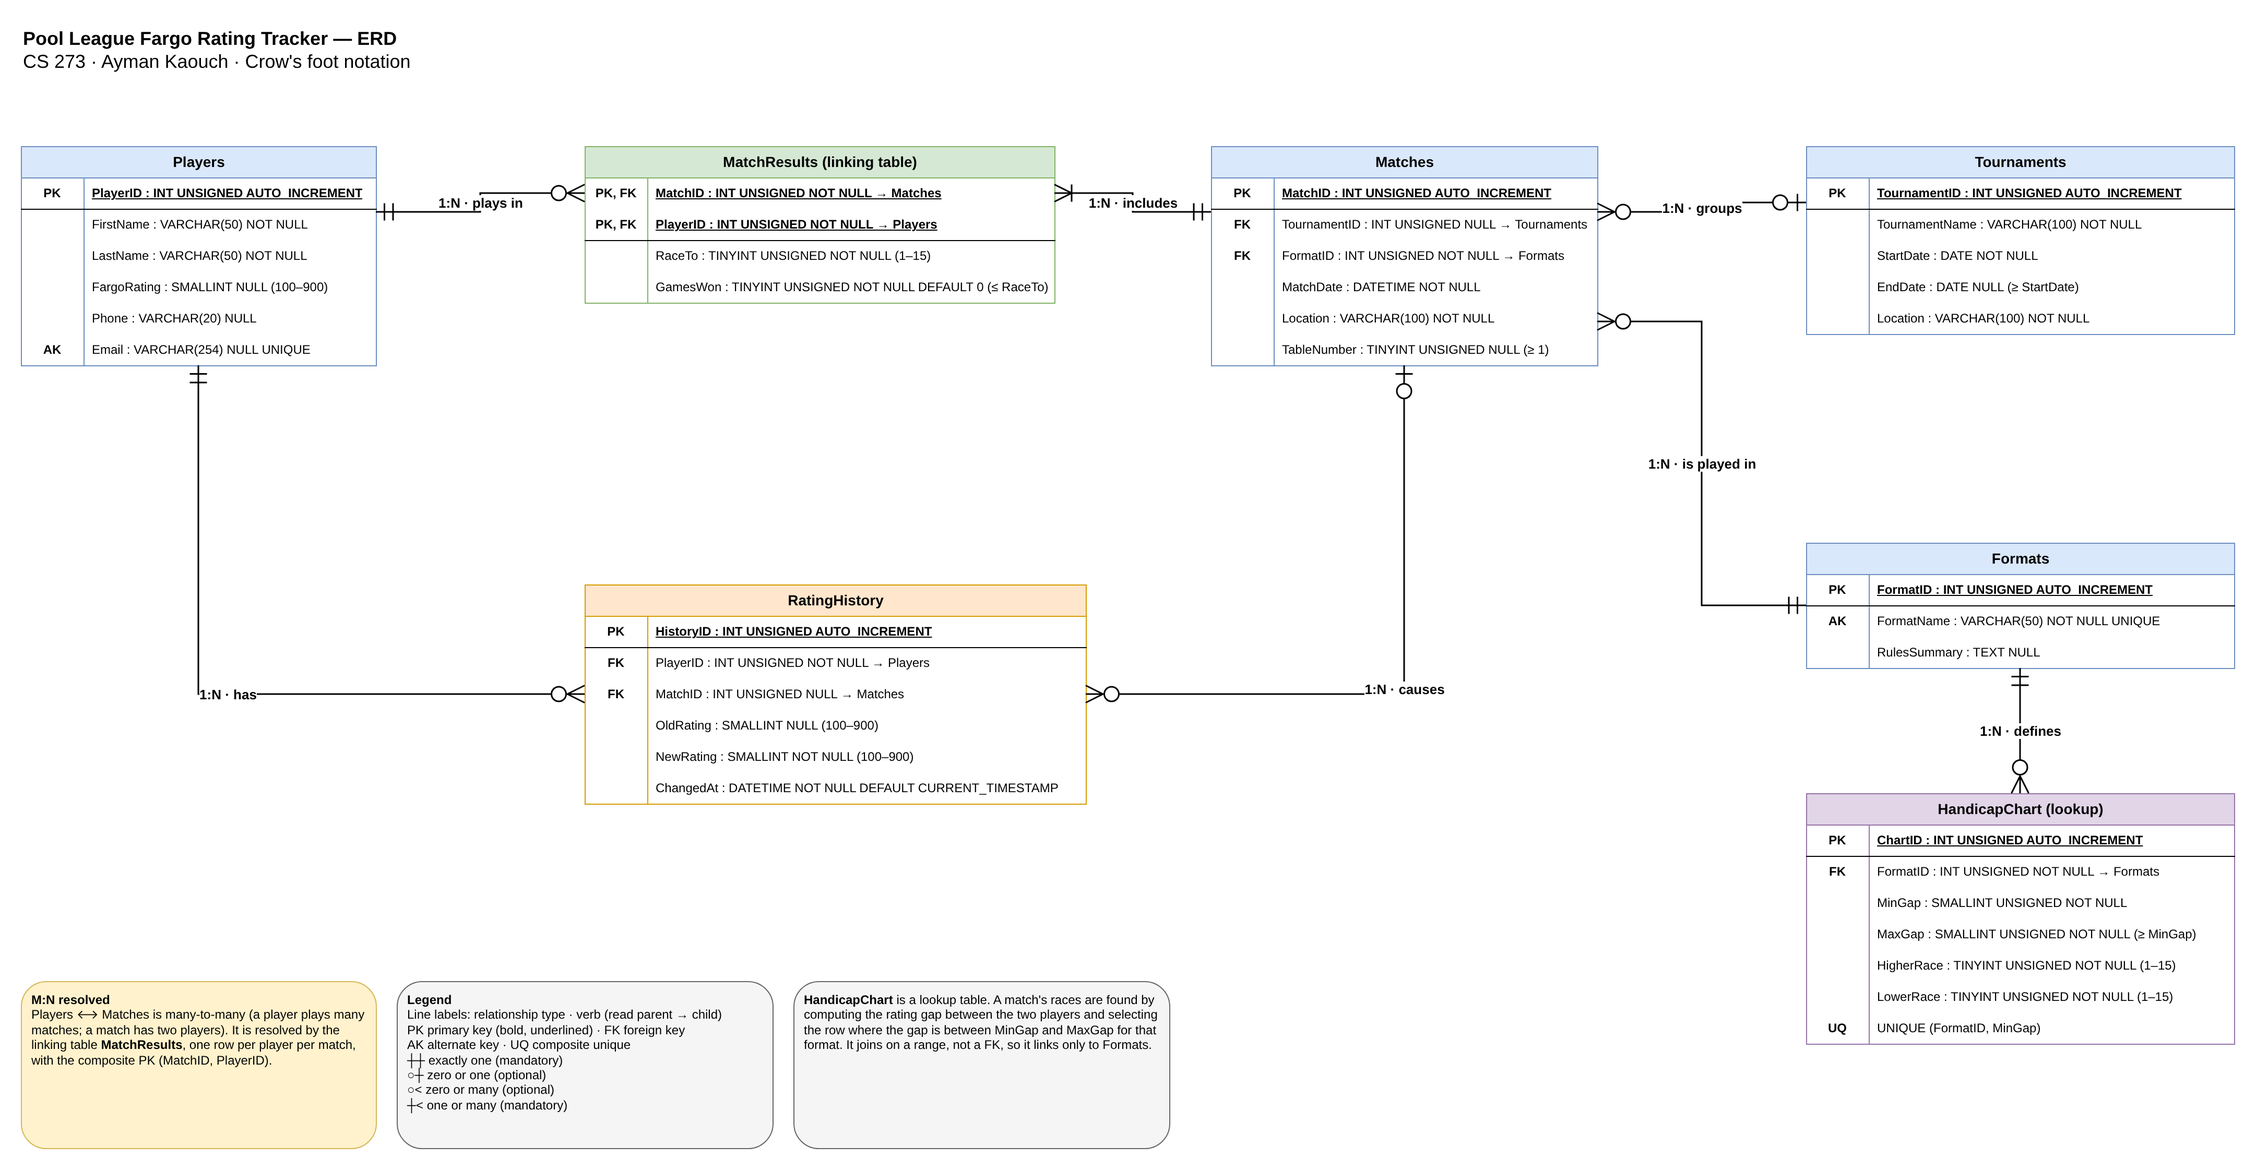
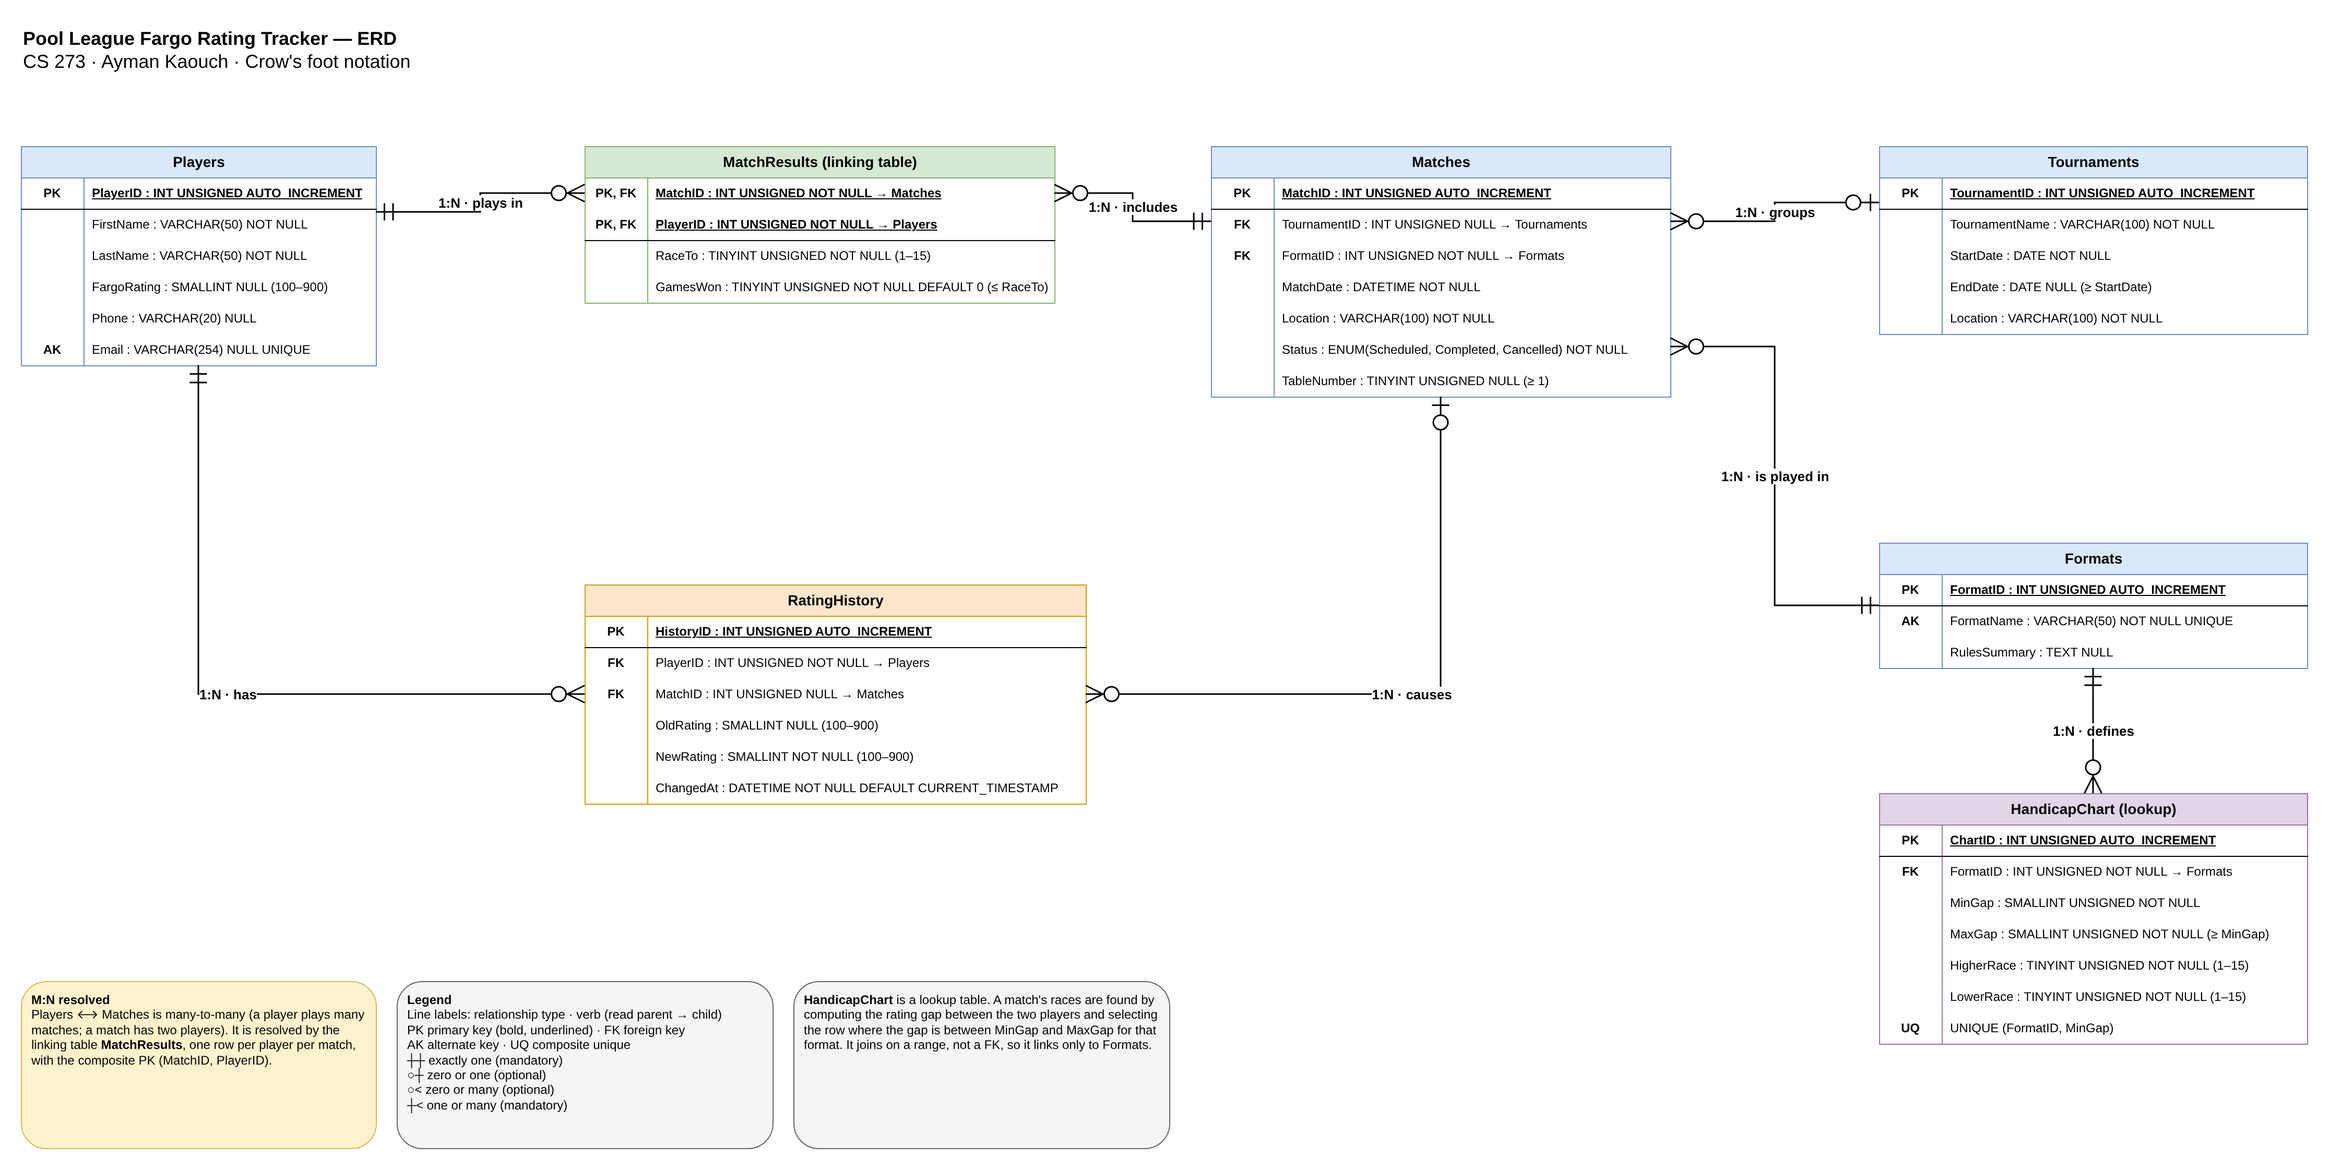
Add match status and status filter

diff --git a/app/read.php b/app/read.php
@@ -2,31 +2,41 @@
 // read.php -- Phase 7a read page: match results
 // CS 273 Phase 7   Ayman Kaouch   Pool League Fargo Rating Tracker
 // Objective 4 — Record individual match schedules, table assignments, and final scores.
-// JOIN query: Matches → Formats, Matches → MatchResults → Players (Phase 5A Q1).
+// JOIN query: Matches → Formats, Matches → MatchResults → Players (Phase 5A Q1),
+// filtered by game format and match status.
 
 // ── 1. Connect ──────────────────────────────────────────────
 require __DIR__ . '/db.php';
 
 // ── 2. Query ────────────────────────────────────────────────
-// Use one of my Phase 5A JOIN queries (Q1)
-$select = 'SELECT m.MatchID,
-                  m.MatchDate,
-                  f.FormatName,
-                  m.TableNumber,
-                  m.Location,
-                  p.FirstName,
-                  p.LastName,
-                  mr.RaceTo,
-                  mr.GamesWon,
-                  mr.GamesWon = mr.RaceTo AS Won
-           FROM Matches m
-           INNER JOIN Formats f       ON m.FormatID  = f.FormatID
-           INNER JOIN MatchResults mr ON m.MatchID   = mr.MatchID
-           INNER JOIN Players p       ON mr.PlayerID = p.PlayerID';
-$order = ' ORDER BY m.MatchDate, m.MatchID, Won DESC';
+// Every match with its players (Phase 5A Q1). LEFT JOINs keep scheduled and
+// cancelled matches, which have no players or results yet.
+// Two optional filters, both passed as ? parameters (never concatenated):
+//   (? = 'all' OR m.FormatID = ?)  → when the filter is 'all', every row passes.
+$sql = 'SELECT m.MatchID,
+               m.MatchDate,
+               f.FormatName,
+               m.TableNumber,
+               m.Location,
+               m.Status,
+               p.FirstName,
+               p.LastName,
+               mr.RaceTo,
+               mr.GamesWon,
+               mr.GamesWon = mr.RaceTo AS Won
+        FROM Matches m
+        INNER JOIN Formats f      ON m.FormatID  = f.FormatID
+        LEFT JOIN MatchResults mr ON m.MatchID   = mr.MatchID
+        LEFT JOIN Players p       ON mr.PlayerID = p.PlayerID
+        WHERE (? = \'all\' OR m.FormatID = ?)
+          AND (? = \'all\' OR m.Status   = ?)
+        ORDER BY m.MatchDate, m.MatchID, Won DESC';
+
+// Whitelist of allowed status values (from the ENUM in schema.sql)
+$allowed_statuses = ['Scheduled', 'Completed', 'Cancelled'];
 
 try {
-    // Formats for the dropdown, and the list of allowed filter values
+    // Formats for the dropdown, and the list of allowed format values
     $stmt = $pdo->prepare('SELECT FormatID, FormatName FROM Formats ORDER BY FormatName');
     $stmt->execute();
     $formats = $stmt->fetchAll();
@@ -36,17 +46,17 @@ try {
         $allowed_formats[] = $f['FormatID'];
     }
 
-    // Get filter from query string, default to 'all'
-    // NEVER concatenate the filter into the SQL: it is passed as a ? parameter
+    // Get the filters from the query string, default to 'all'.
+    // Anything not in a whitelist becomes 'all'.
     $filter = $_GET['format'] ?? 'all';
-    if ($filter === 'all' || !in_array($filter, $allowed_formats)) {
+    if (!in_array($filter, $allowed_formats)) {
         $filter = 'all';
-        $sql    = $select . $order;
-        $params = [];
-    } else {
-        $sql    = $select . ' WHERE m.FormatID = ?' . $order;
-        $params = [$filter];
     }
+    $status = $_GET['status'] ?? 'all';
+    if (!in_array($status, $allowed_statuses, true)) {
+        $status = 'all';
+    }
+    $params = [$filter, $filter, $status, $status];
 
     $stmt = $pdo->prepare($sql);
     $stmt->execute($params);
@@ -81,6 +91,10 @@ try {
   tr:nth-child(even) { background: #f5f5f5; }
   .won  { color: #1E6B3C; font-weight: bold; }
   .lost { color: #7B1F1F; }
+  .badge { padding: .15rem .5rem; border-radius: 4px; font-size: .85rem; }
+  .badge-completed { background: #d4edda; color: #155724; }
+  .badge-scheduled { background: #d6e4f0; color: #1F3864; }
+  .badge-cancelled { background: #e2e3e5; color: #555; }
   .no-results { color: #888; font-style: italic; margin-top: 1rem; }
   .error      { color: #c0392b; background: #fdf2f2; padding: .75rem; }
   .success    { color: #1E6B3C; background: #eafaf1; padding: .75rem; }
@@ -90,7 +104,7 @@ try {
 <body>
 
 <h1>Match Results</h1>
-<p>Every match, who played, the race each player had to reach, and who won.</p>
+<p>Every match: when and where it is played, its status, who played, the race each player had to reach, and who won.</p>
 
 <?php if (isset($_GET['added']) && $_GET['added'] === '1'): ?>
   <p class="success">Record added.</p>
@@ -98,7 +112,7 @@ try {
 
 <p><a href="insert.php">+ Add a player</a></p>
 
-<!-- HTML form for the filter -->
+<!-- HTML form for the filters -->
 <form method="GET">
   <label>Game format:
     <select name="format" onchange="this.form.submit()">
@@ -107,6 +121,18 @@ try {
         <option value="<?= htmlspecialchars($f['FormatID']) ?>"
           <?= ($f['FormatID'] == $filter) ? 'selected' : '' ?>>
           <?= htmlspecialchars($f['FormatName']) ?>
+        </option>
+      <?php endforeach; ?>
+    </select>
+  </label>
+  &nbsp;
+  <label>Status:
+    <select name="status" onchange="this.form.submit()">
+      <option value="all">All statuses</option>
+      <?php foreach ($allowed_statuses as $s): ?>
+        <option value="<?= htmlspecialchars($s) ?>"
+          <?= ($s === $status) ? 'selected' : '' ?>>
+          <?= htmlspecialchars($s) ?>
         </option>
       <?php endforeach; ?>
     </select>
@@ -127,6 +153,7 @@ try {
         <th>Format</th>
         <th>Table</th>
         <th>Location</th>
+        <th>Status</th>
         <th>Player</th>
         <th>Race To</th>
         <th>Games Won</th>
@@ -140,13 +167,29 @@ try {
           $dt = new DateTime($row['MatchDate']);
           $nice_date = $dt->format('M d, Y g:i A');
 
-          // Result: the winner is the player who reached their race
-          $result = $row['Won'] ? 'Won' : 'Lost';
-          $class  = match ($result) {
+          // Status badge: CSS class based on the value
+          $status_class = match ($row['Status']) {
+              'Completed' => 'badge-completed',
+              'Scheduled' => 'badge-scheduled',
+              'Cancelled' => 'badge-cancelled',
+              default     => '',
+          };
+
+          // Result: only a completed match has a winner
+          // (the winner is the player who reached their race)
+          if ($row['Status'] === 'Completed') {
+              $result = $row['Won'] ? 'Won' : 'Lost';
+          } else {
+              $result = '—';
+          }
+          $class = match ($result) {
               'Won'   => 'won',
               'Lost'  => 'lost',
               default => '',
           };
+
+          // Players aren't drawn yet for scheduled/cancelled matches
+          $player = ($row['FirstName'] !== null) ? $row['FirstName'] . ' ' . $row['LastName'] : 'TBD';
         ?>
         <tr>
           <td><?= htmlspecialchars($row['MatchID']) ?></td>
@@ -154,9 +197,10 @@ try {
           <td><?= htmlspecialchars($row['FormatName']) ?></td>
           <td><?= htmlspecialchars($row['TableNumber'] ?? '—') ?></td>
           <td><?= htmlspecialchars($row['Location']) ?></td>
-          <td><?= htmlspecialchars($row['FirstName'] . ' ' . $row['LastName']) ?></td>
-          <td><?= htmlspecialchars($row['RaceTo']) ?></td>
-          <td><?= htmlspecialchars($row['GamesWon']) ?></td>
+          <td><span class="badge <?= $status_class ?>"><?= htmlspecialchars($row['Status']) ?></span></td>
+          <td><?= htmlspecialchars($player) ?></td>
+          <td><?= htmlspecialchars($row['RaceTo'] ?? '—') ?></td>
+          <td><?= htmlspecialchars($row['GamesWon'] ?? '—') ?></td>
           <td class="<?= $class ?>"><?= htmlspecialchars($result) ?></td>
         </tr>
       <?php endforeach; ?>

diff --git a/erd/README.md b/erd/README.md
@@ -33,8 +33,8 @@ A player plays many matches over a season, and every match has more than one pla
 Each MatchResults row is about exactly one player (`PlayerID` NOT NULL), but one player has many match rows. A player can have zero rows if they just signed up.
 **If modeled differently:** as 1:1, a player could only ever record one match. If MatchResults were mandatory, a new player could not be added until they had already played.
 
-### Matches → MatchResults — **1:N** (Matches mandatory one · MatchResults mandatory many)
-Each row belongs to exactly one match (`MatchID` NOT NULL), and one match has several player rows (two in practice). A match without players makes no sense, so both sides are mandatory.
+### Matches → MatchResults — **1:N** (Matches mandatory one · MatchResults optional many)
+Each row belongs to exactly one match (`MatchID` NOT NULL), and a completed match has two player rows. A scheduled match can exist before the players are drawn, and a cancelled match may never get any, so the MatchResults side is optional (zero or many).
 **If modeled differently:** as 1:1, a match could store only one player's score, so the opponent's race and result would have nowhere to go. The composite primary key `(MatchID, PlayerID)` stops the same player being entered twice in one match.
 
 ### Formats → Matches — **1:N** (Formats mandatory one · Matches optional many)
@@ -99,4 +99,4 @@ A close second was the **handicap**. Phase 2 had a `handicap_at_match` number fr
 - **Removed `is_winner` from MatchResults.** The winner can be worked out from the data (`GamesWon = RaceTo`), so storing it could disagree with the score. This is the same reason `games_lost` was removed.
 - **Added relationship verb labels** to every line in the ERD (for example, Players *plays in* MatchResults).
 - **Renamed for consistent naming.** Fields are now TableName + ID / PascalCase (`PlayerID`, `FargoRating`). The linking table Player_Matches is now **MatchResults**, named after what the relationship represents, with the composite primary key `(MatchID, PlayerID)` instead of its own ID column.
-
+- **Added `Status` to Matches** (`Scheduled`, `Completed`, `Cancelled`) so the app can show upcoming and cancelled matches and filter by status. Because a scheduled or cancelled match has no players yet, the MatchResults side of Matches → MatchResults changed from mandatory to optional.

diff --git a/queries/README.md b/queries/README.md
@@ -19,7 +19,7 @@ Objective numbers refer to the Mission Objectives in `domain/README.md`.
 
 **Q3 — Player activity.** A LEFT JOIN from Players to MatchResults on `PlayerID` keeps players with no matches, and they show 0. Emma Cole has signed up but hasn't played.
 
-**Q4 — Tournament schedule.** Tournaments joins Matches on `TournamentID`, and Matches joins Formats on `FormatID`. It gives a director the full schedule of the Fall 9-Ball Open with times and table assignments.
+**Q4 — Tournament schedule.** Tournaments joins Matches on `TournamentID`, and Matches joins Formats on `FormatID`. It gives a director every tournament's schedule with times and table assignments: the 4 played Fall 9-Ball Open matches, plus the cancelled Halloween match and the upcoming Thanksgiving and Winter matches.
 
 **Q5 — Handicap check.** MatchResults and Players are joined twice, once per opponent, so both ratings are on the same row. HandicapChart is joined on `FormatID` and on the rating gap falling between `MinGap` and `MaxGap`. All 7 matches between rated players followed the chart.
 
@@ -41,7 +41,7 @@ Objective numbers refer to the Mission Objectives in `domain/README.md`.
 
 **Q8 — Above-average game totals.** The subquery divides all games won by the number of players who played to get the average per player (62 ÷ 7 = 8.9), and HAVING compares each player to it instead of a hard-coded number. Omar, Grace and Nadia win the most games.
 
-**Q9 — Tournament workload.** The LEFT JOIN keeps tournaments with no matches, and `COUNT(m.MatchID)` returns 0 for them. Only the Fall 9-Ball Open has matches (4, on 2 tables). The other 4 tournaments have none scheduled yet.
+**Q9 — Tournament workload.** The LEFT JOIN keeps tournaments with no matches, and `COUNT(m.MatchID)` returns 0 for them. The Fall 9-Ball Open had 4 matches on 2 tables, Thanksgiving has 2 scheduled, and the New Year Championship shows 0 because nothing is scheduled yet.
 
 **Q10 — Rating ranges of tournament players.** The IN subquery finds every player who played a tournament match, and GROUP BY summarizes their rating history. Grace Kim had the most updates (4). Sara Bennett is at her highest rating (450).
 

diff --git a/app/README.md b/app/README.md
@@ -4,12 +4,13 @@
 | --- | --- |
 | `db.php` | PDO connection (ERRMODE_EXCEPTION, FETCH_ASSOC, EMULATE_PREPARES = false). Every page requires it. |
 | `insert.php` | Add Player form (Objective 1). Validates the input, runs a prepared INSERT into Players, then redirects to `read.php?added=1`. |
-| `read.php` | Match Results page (Objective 4). JOINs Matches, Formats, MatchResults and Players and shows every match, both players, their race, games won and the winner. |
+| `read.php` | Match Results page (Objective 4), with filters for game format and match status. JOINs Matches, Formats, MatchResults and Players and shows every match, both players, their race, games won and the winner. |
 
 **read.php follows the Phase 7a checklist:**
 - Runs a 4-table JOIN with a prepared statement (`prepare` → `execute` → `fetchAll`).
 - Shows results in a `<table>` with `<thead>` headers and one `<tr>` per row in `<tbody>`.
-- Optional filter by game format: the value must be in the whitelist of real FormatIDs, and it is passed as a `?` parameter, never concatenated into the SQL.
+- Two optional filters, **game format** and **match status** (Scheduled / Completed / Cancelled). Each value must be in a whitelist (real FormatIDs; the three status values), and both are passed as `?` parameters, never concatenated into the SQL.
+- Scheduled and cancelled matches show **TBD** for players and **—** for the result, with a colored status badge.
 - Shows "No records found." when there are no rows (try the One Pocket filter).
 - Every database value is wrapped in `htmlspecialchars()` to prevent XSS.
 - Database errors are logged, and the user sees a generic message.

diff --git a/field-list/README.md b/field-list/README.md
@@ -41,7 +41,7 @@ A tournament event that groups a set of matches.
 | `Location` | `VARCHAR(100)` | NOT NULL | — | |
 
 ## Table 4: `Matches`
-One scheduled match: when, where, on which table, in which format and tournament.
+One match: when, where, on which table, in which format and tournament, and whether it is scheduled, completed or cancelled.
 
 | Field | MySQL Type | NULL | Default | Constraints / Notes |
 | :--- | :--- | :--- | :--- | :--- |
@@ -50,6 +50,7 @@ One scheduled match: when, where, on which table, in which format and tournament
 | `FormatID` | `INT UNSIGNED` | NOT NULL | — | FK → `Formats.FormatID` |
 | `MatchDate` | `DATETIME` | NOT NULL | — | |
 | `Location` | `VARCHAR(100)` | NOT NULL | — | |
+| `Status` | `ENUM('Scheduled','Completed','Cancelled')` | NOT NULL | 'Scheduled' | Only these three values are allowed |
 | `TableNumber` | `TINYINT UNSIGNED` | NULL | NULL | CHECK ≥ 1; NULL = not assigned yet |
 
 ## Table 5: `MatchResults` (linking table, Players ⟷ Matches)
@@ -131,3 +132,4 @@ Every FK has exactly the same type as the PK it references: all IDs are `INT UNS
 | Renamed all fields to TableName + ID / PascalCase | One consistent naming rule: `PlayerID`, `FirstName`, ... |
 | Renamed `Player_Matches` to `MatchResults` and gave it a composite PK `(MatchID, PlayerID)` | Linking tables are named after the relationship and use a composite PK of their two FKs |
 | All IDs are `INT UNSIGNED` | IDs are never negative, and every FK must match its PK's type |
+| Added `Status` to `Matches` | The app needs to show upcoming and cancelled matches, not only completed ones, and filter by status |

diff --git a/data/README.md b/data/README.md
@@ -8,11 +8,11 @@
 | Formats | 5 |
 | Tournaments | 5 |
 | HandicapChart | 11 |
-| Matches | 8 |
+| Matches | 12 (8 completed, 3 scheduled, 1 cancelled) |
 | MatchResults | 16 |
 | RatingHistory | 13 (12 + 1 added by Transaction 1) |
 
-Edge cases included: a player with no rating, a player with no phone, a player with no email, players who never played, one-day tournaments with no end date, league matches with no tournament, and manual rating adjustments with no match.
+Edge cases included: a player with no rating, a player with no phone, a player with no email, players who never played, one-day tournaments with no end date, league matches with no tournament, upcoming scheduled matches with no players drawn yet, a cancelled match, and manual rating adjustments with no match.
 
 **Transaction 1 (COMMIT):** after match 5, Luis Ortega's rating drops from 520 to 516. The transaction inserts the change into RatingHistory and updates Players together, so the history and the current rating always agree.
 

diff --git a/schema/README.md b/schema/README.md
@@ -38,3 +38,6 @@ All FKs use **ON UPDATE CASCADE**, so if an ID ever changes, every reference fol
 - MatchResults' composite PK `(MatchID, PlayerID)`: a player can appear only once in a match.
 
 Rating columns are `SMALLINT`, not `UNSIGNED`, so a rating *change* (`NewRating - OldRating`) can be negative without a MySQL error.
+
+## Match status
+`Matches.Status` is an `ENUM('Scheduled','Completed','Cancelled')` with default `'Scheduled'`. A new match starts as scheduled; MySQL rejects any other value. Only completed matches have rows in MatchResults, so every results query (wins, games won, handicap check) only ever sees completed matches.
